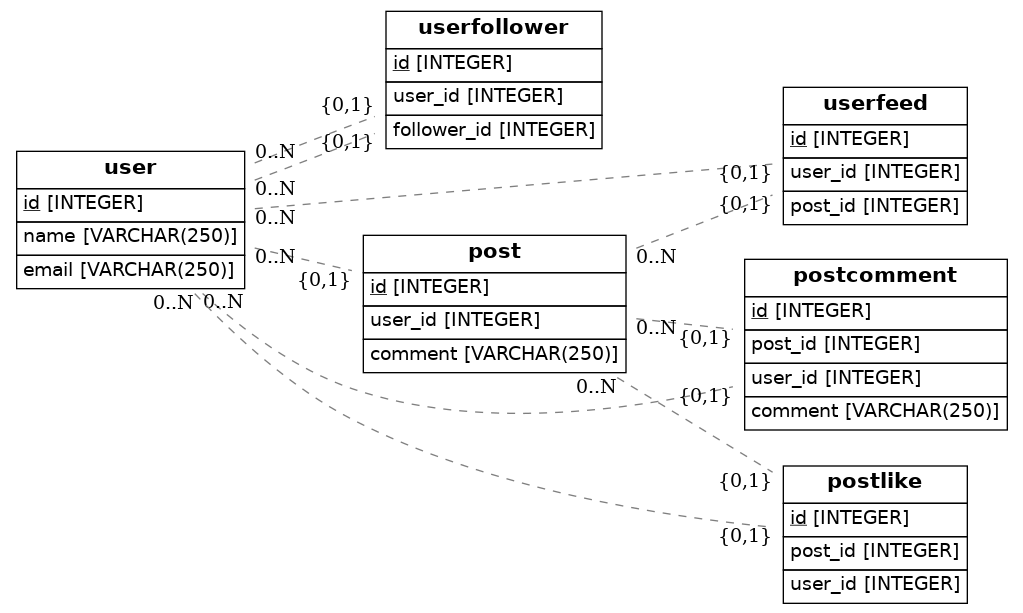
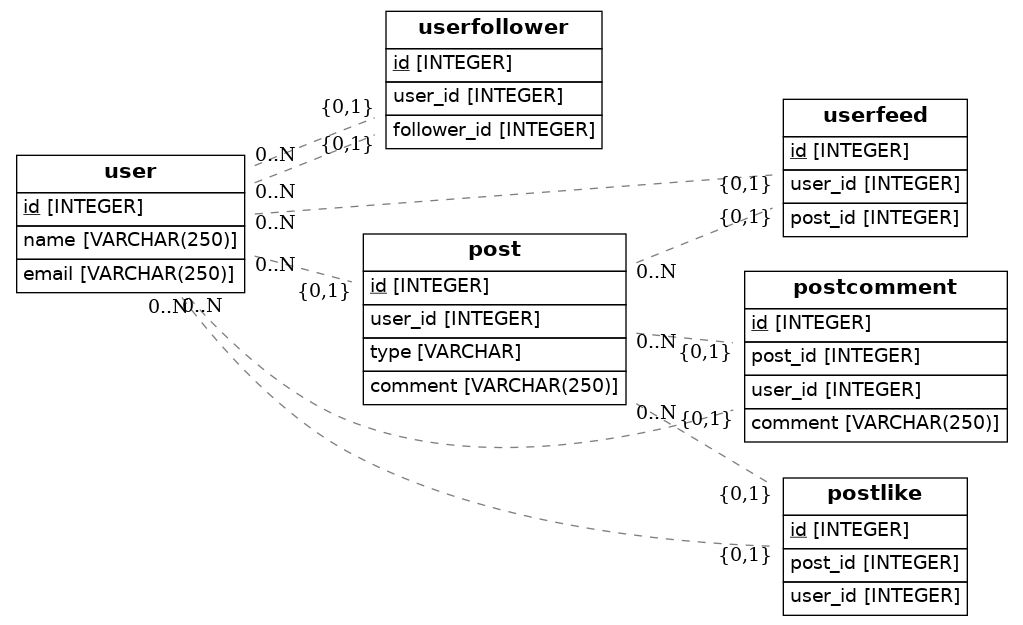
instagramDataModeling

diff --git a/src/models.py b/src/models.py
@@ -26,24 +26,13 @@ class User(Base):
     name = Column(String(250), nullable=False)
     email = Column(String(250), nullable=False)
 
-class UserFollower(Base):
-    __tablename__ = 'userfollower'
-    id = Column(Integer, primary_key=True)
-    user_id = Column(Integer, ForeignKey('user.id'))
-    follower_id = Column(Integer, ForeignKey('user.id'))
-
 class Post(Base):
     __tablename__ = 'post'
     id = Column(Integer, primary_key=True)
     user_id = Column(Integer, ForeignKey('user.id'))
+    type= Column(String)
     comment = Column(String(250))
-
-class UserFeed(Base):
-    __tablename__ = 'userfeed'
-    id = Column(Integer, primary_key=True)
-    user_id = Column(Integer, ForeignKey('user.id'))
-    post_id = Column(Integer, ForeignKey('post.id'))
-
+    
 class PostComment(Base):
     __tablename__ = 'postcomment'
     id = Column(Integer, primary_key=True)
